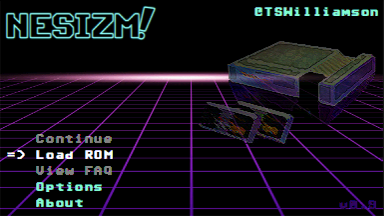
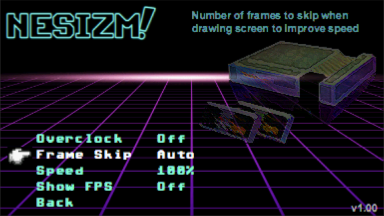
Update screenshots, set simulator function to be usable through C (SDK change)

diff --git a/src/nes_ppu.cpp b/src/nes_ppu.cpp
@@ -635,7 +635,7 @@ void nes_ppu::step() {
 		{
 			nesCart.LoadState();
 		}
-
+		
 		// good time to synchronize cpu clock if we are getting too high (to avoid wraparound at 30 min of play)
 		mainCPU.syncClocks();
 

diff --git a/src/platform.h b/src/platform.h
@@ -26,6 +26,11 @@ typedef unsigned int uint32;
 #define RESTRICT __restrict
 #include <time.h>
 #undef LoadImage
+
+extern "C" {
+	int simmain(void);
+}
+
 #else
 
 #define ALIGN(x) __attribute__((aligned(x)))

diff --git a/README.md b/README.md
@@ -1,6 +1,7 @@
 ![Menu Screen](gfx/Menu.png) ![Screenshot1](gfx/Shot1.png) 
 
 # NESizm v 1.00
+
 NESizm is a Nintendo Entertainment System emulator for the Casio Prizm series of graphics calculators. It currently supports the FX-CG10, FX-CG20, FX-CG50, and Graph 90+ E Casio calculators. NESizm was built from the ground up with performance in mind, while maintaining accurate emulation and compatibility wherever possible with clever caching, forced alignment, and hand written assembly where necessary. It runs most titles at 60 FPS with no overclocking on the FX-CG50.
 
 This project has its roots in my interest in early game development technology, as well as the inherent benefits of the Prizm as a platform. There is a large install base of players who can now play NES over many many hours of battery life with 0 input lag from keyboard to display.
@@ -67,6 +68,8 @@ If you are so inclined, a custom palette can be used. There are 192 byte palette
 
 ### Backgrounds
 
+![Screenshot3](gfx/Shot4.png)
+
 4 Background options are available. The 'Warp' background matches the main menu. The TV background provides a nostalgic old TV background, particularly in the smaller screen stretch modes. The Game BG Color option will match the currently selected game background palette color. The usage of this varies per game but it works well in some, such as the blue/black background selections in Super Mario Bros.
 
 ### In-game clock
@@ -107,6 +110,8 @@ PAL ROMS run at a different frame rate of 50 Hz compared to games from the USA a
 Game genie codes are supported via a separate file per game. If you have a text file with the file name "GameName.gg" where GameName matches your ROM file minus the nes extension, with line separated game genie codes, the emulator will load and use those codes when the ROM is loaded. You will be presented with a dialog in the menu when this happens successfully. I recommend the Utilities app by gbl08ma if you would like to edit codes manually using a text editor on the calculator. You can find that at https://github.com/gbl08ma/utilities
 
 ## FAQ Viewer
+
+![Screenshot3](gfx/FAQ.png)
 
 If you have a txt file with the same name as your ROM file, it will be visible while the game is loaded in the FAQ viewer via the main menu. The FAQ viewer will remember your previous position as you play. Navigate the FAQ with the arrow keys, your position is shown via the scroll bar on the right. You can jump through 10% increments of the file as well with the 0-9 keys.
 
